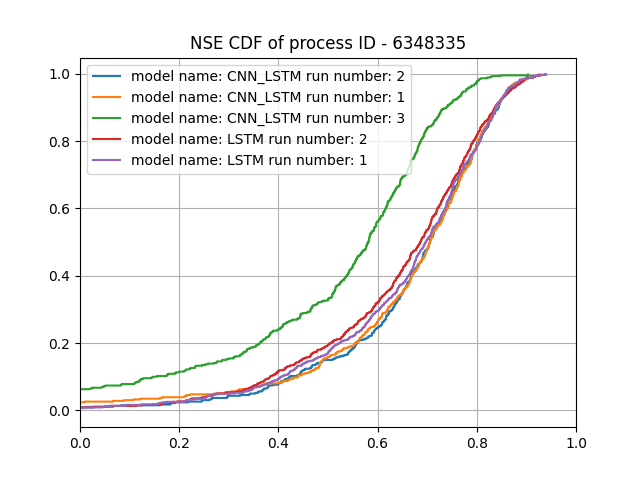
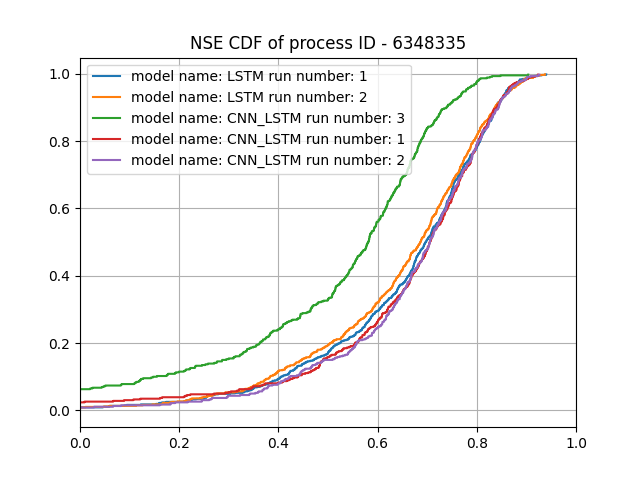
changing transformer CNN (maybe to something better)

diff --git a/src/FloodML_Transformer_CNN.py b/src/FloodML_Transformer_CNN.py
@@ -67,7 +67,7 @@ class EncoderLayer(nn.Module):
         self.pos_ffn = PositionwiseFeedForward(d_model, d_inner, dropout=dropout)
 
     def forward(self, enc_input_non_spatial, enc_input_spatial, slf_attn_mask=None):
-        enc_output, enc_slf_attn = self.slf_attn(enc_input_non_spatial, enc_input_spatial, enc_input_spatial,
+        enc_output, enc_slf_attn = self.slf_attn(enc_input_spatial, enc_input_non_spatial, enc_input_non_spatial,
                                                  mask=slf_attn_mask)
         enc_output = self.pos_ffn(enc_output)
         return enc_output, enc_slf_attn

diff --git a/src/FloodML_train_test.py b/src/FloodML_train_test.py
@@ -666,7 +666,7 @@ def choose_hyper_parameters_validation(
     #         val_stations_list.append(all_stations_list_sorted[i])
     train_stations_list = all_stations_list_sorted[:]
     val_stations_list = all_stations_list_sorted[:]
-    learning_rates = np.linspace(5 * (10 ** -4), 5 * (10 ** -4), num=1).tolist()
+    learning_rates = np.linspace(5 * (10 ** -3), 5 * (10 ** -3), num=1).tolist()
     dropout_rates = [0.4]
     sequence_lengths = [270]
     if model_name.lower() == "transformer":

diff --git a/src/calculate_NSE_per_basin.py b/src/calculate_NSE_per_basin.py
@@ -46,7 +46,7 @@ def create_dict_basin_id_to_NSE_my_code(logs_filename):
 
 
 def plot_NSE_CDF_graphs_my_code():
-    input_file_name = "slurm-6348335.out"
+    input_file_name = "slurm-6406468.out"
     d = create_dict_basin_id_to_NSE_my_code(f"{input_file_name}")
     run_numbers = set([run_number for _, run_number in d.keys()])
     model_names = set([model_name for model_name, _ in d.keys()])
